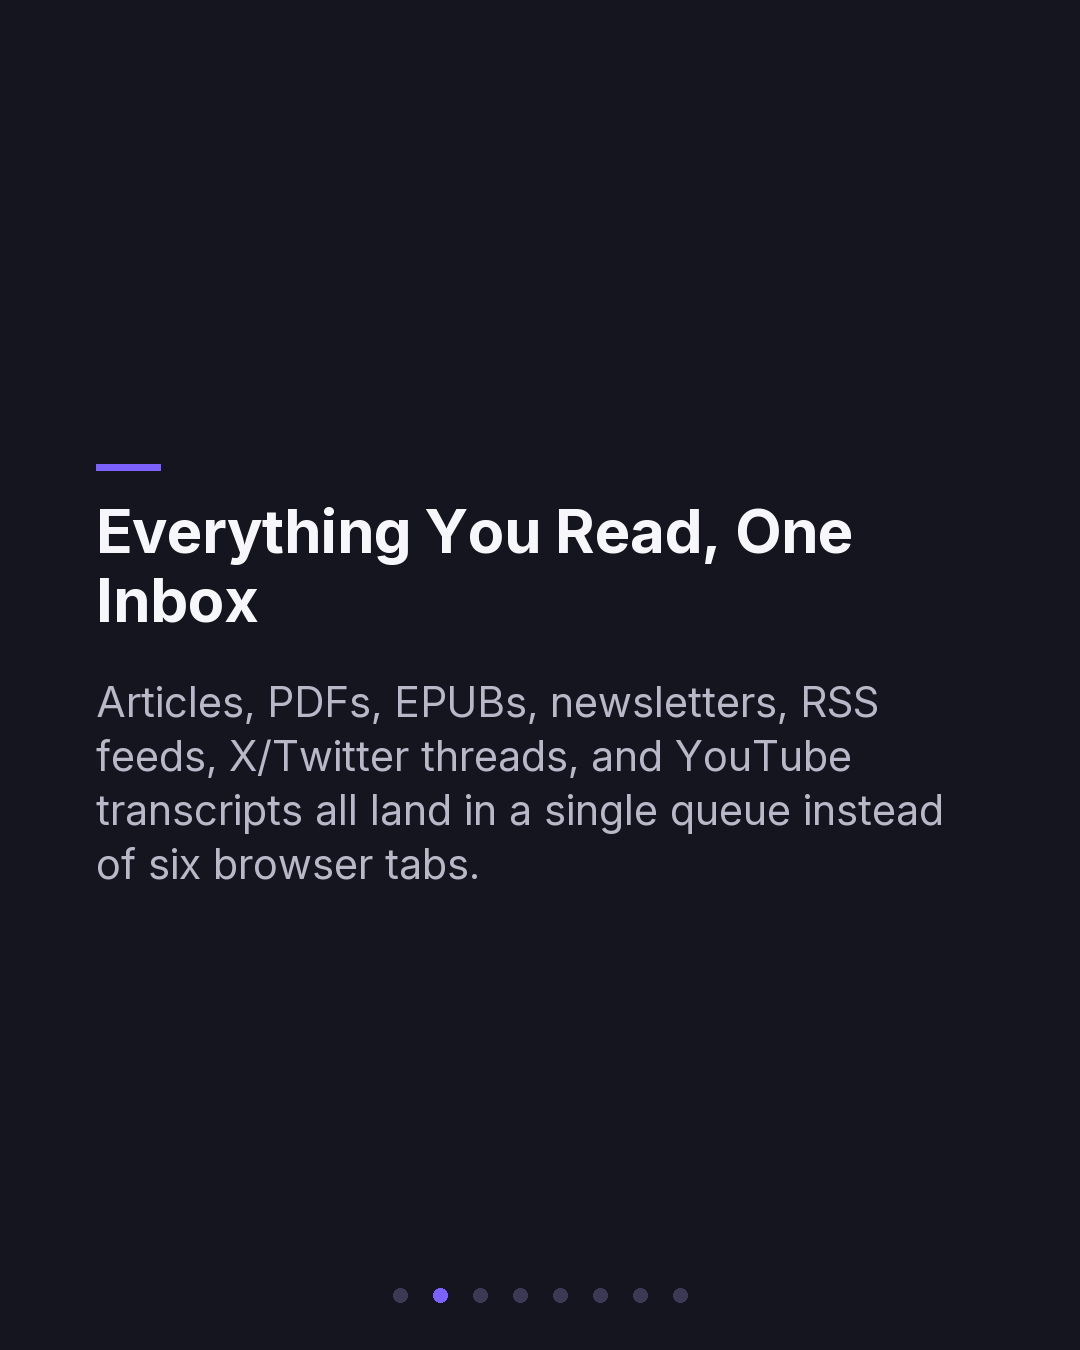
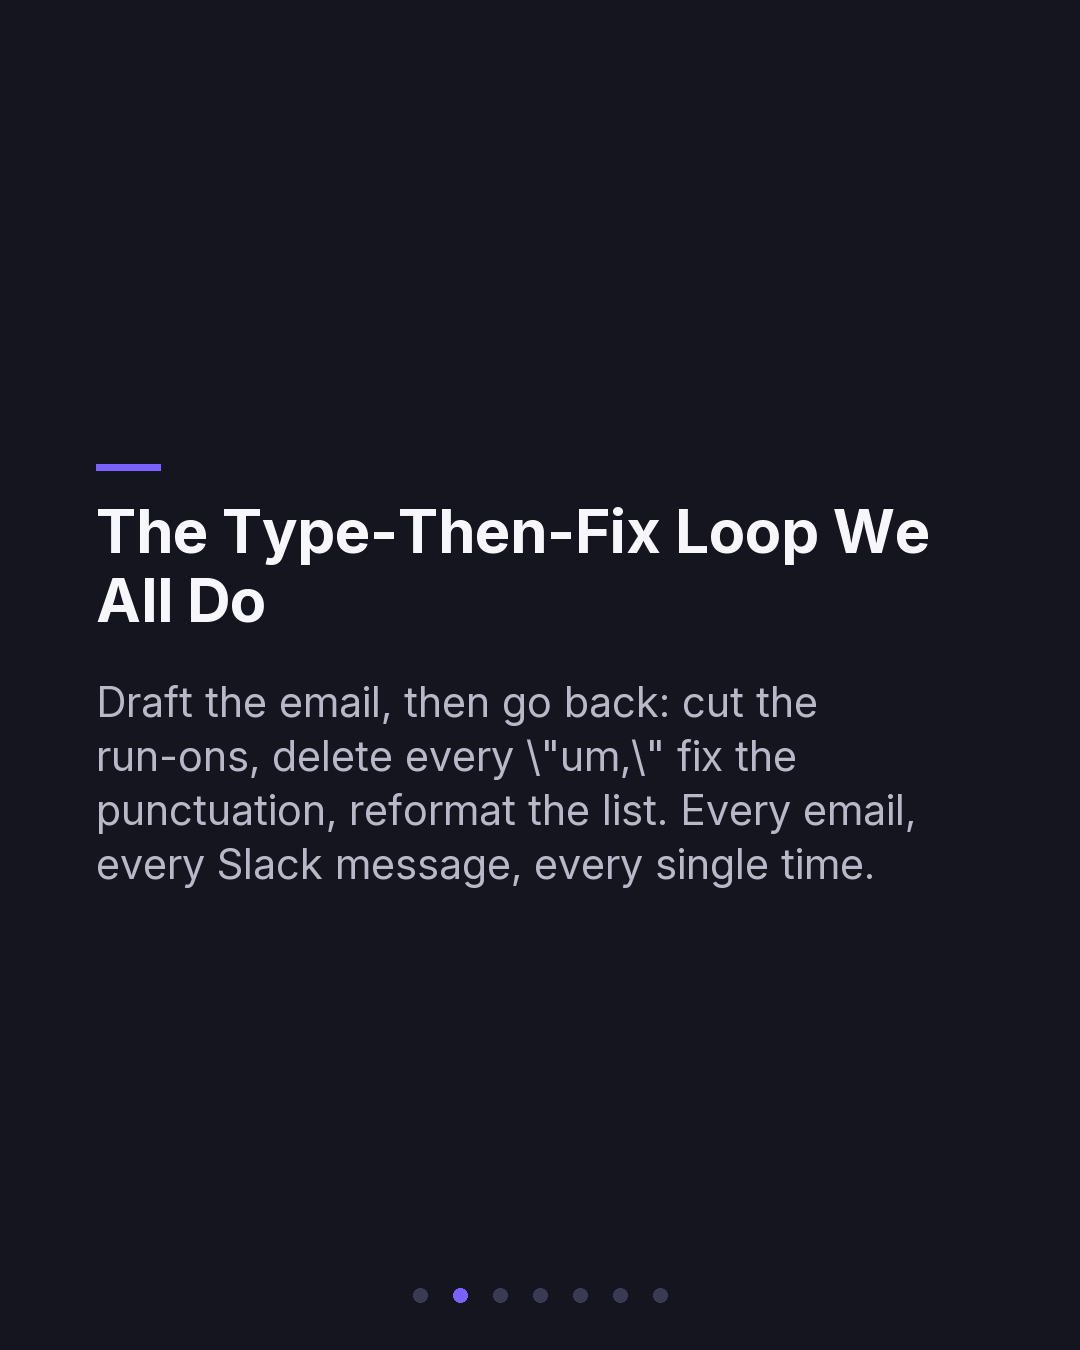
Rebuild content strategy around desire rather than specs
Pricing was both eating the search budget and turning posts into spec
sheets, so it's demoted to a passing caption mention at most. Slides now
follow a desire arc (hook, status quo, vivid capabilities, one honest
catch, CTA) and the critique pass tests a single question: would a
scroller stop, read, and want this?

Also fixes the run that hung for 25 minutes and cost ~4 EUR: the research
call is streamed so it can't trip the SDK timeout, retries are capped at
zero so a failure is billed once, and the job has a 15-minute ceiling.
Search budget raised 4 -> 5 since three hard requirements couldn't fit in
four searches, which is why yesterday's run bailed with NO QUALIFYING
CANDIDATE.

Changed region(s): [[0.0917, 0.4978, 0.8861, 0.6533], [0.0917, 0.3733, 0.8556, 0.4667], [0.3667, 0.9333, 0.6417, 0.9644]]

diff --git a/generate_content.py b/generate_content.py
@@ -4,14 +4,14 @@ Instagram carousel content generator.
 What this does:
   1. Alternates between two research modes so coverage stays ~50/50 over
      time (not left to chance, which is what drifted to "always newest"):
-       - "proven": a tool with a real track record -- confirmed pricing,
-         real reviews, an underrated gem or a big recent update
-       - "new": a genuinely recent launch/update -- but ONLY if Claude can
-         confirm real pricing and real evidence of adoption; otherwise it's
-         instructed to reject that candidate and search for a different one
-         rather than publish something unresearchable (this is the fix for
-         posts like the 3-day-old tool with no confirmed pricing that
-         slipped through before)
+       - "proven": a tool with a real track record -- real users and
+         discussion, an underrated gem or a big recent update
+       - "new": a genuinely recent launch/update -- but only if it's real and
+         usable today, not vaporware or a waitlist (the fix for the 3-day-old
+         tool with nothing verifiable that slipped through before)
+     Research aims at what makes a tool exciting -- its standout capability
+     and what drudgery it removes -- not at pricing tiers, which made earlier
+     posts read like spec sheets.
   2. Asks Claude to write a caption + carousel slides, then critiques and
      rewrites its own draft for specificity and punch
   3. Renders each slide as a designed image with Pillow
@@ -58,10 +58,12 @@ OVEREXPOSED_TOOLS = [
     "Notion AI", "Grammarly", "Jasper", "Copy.ai", "Midjourney", "Canva Magic Studio",
 ]
 
+# Pricing-related flags deliberately removed -- pricing is no longer something
+# the post needs, so "no public pricing" is not a problem. What still matters
+# is whether the tool is actually real and usable.
 UNCONFIRMED_RED_FLAGS = [
     "could not confirm", "cannot confirm", "not confirmed", "unable to confirm",
-    "pricing not available", "pricing not yet public", "pricing tbd",
-    "waitlist only", "no public pricing",
+    "waitlist only", "not yet launched", "coming soon", "invite only",
 ]
 
 
@@ -101,55 +103,66 @@ def research_topic(client: anthropic.Anthropic, history: list[str], mode: str) -
     if mode == "proven":
         task = (
             "Your job: find ONE AI tool or productivity app with a genuine track record -- "
-            "something that's been around long enough to have confirmed pricing and real "
-            "user reviews, but that this audience likely hasn't tried yet. This can be a "
-            "well-made tool that never got much attention, or an established one that just "
-            "shipped a major feature worth revisiting. It does NOT need to be new -- being "
-            "genuinely useful and under-the-radar matters more here than recency."
+            "something that's been around long enough that real people use and discuss it, "
+            "but that this audience likely hasn't tried yet. A well-made tool that never got "
+            "much attention, or an established one that just shipped something worth "
+            "revisiting. It does NOT need to be new -- being genuinely useful and "
+            "under-the-radar matters more here than recency."
         )
     else:
         task = (
             "Your job: find ONE AI tool or productivity app that is genuinely recent -- "
-            "launched, out of beta, or majorly updated within roughly the last 1-6 months.\n\n"
-            "HARD requirements -- the tool you write up must have ALL THREE of these "
-            "confirmed by search, not assumed:\n"
-            "1. A specific, real price or pricing tier. 'Pricing not yet public', 'waitlist "
-            "only', or you guessing a likely price does NOT count.\n"
-            "2. Real evidence of adoption/reception -- meaningful Product Hunt comments or "
-            "upvotes, press coverage, Hacker News/Reddit discussion, or review site "
-            "listings. A bare directory listing with zero engagement is NOT enough.\n"
-            "3. Actual recency. A tool that launched years ago does NOT qualify just "
-            "because it still exists -- if you pick an established product, the angle must "
-            "be a specific feature or version it shipped in the last ~6 months, and that "
-            "feature must be what the post is about.\n\n"
-            "Start your summary with a line in exactly this format so recency is auditable:\n"
-            "RECENCY: <what launched or changed, and roughly when>\n"
-            "If you can't fill that line in honestly with something from the last ~6 "
-            "months, this candidate does not qualify for today."
+            "launched, out of beta, or majorly updated within roughly the last 1-6 months. "
+            "If you pick an established product, the angle must be something it shipped in "
+            "that window, and that new thing must be what the post is about.\n\n"
+            "Start your summary with this line so recency is auditable:\n"
+            "RECENCY: <what launched or changed, and roughly when>"
         )
 
-    # Search budget matters a lot: every result stays in context and gets
-    # re-billed on each later turn of the tool loop, so search count drives
-    # cost super-linearly. Hence the explicit plan + hard cap below.
-    search_discipline = (
-        "\n\nSEARCH BUDGET -- important: you have a hard limit of 4 web searches, and each "
-        "one materially increases cost. Use them deliberately:\n"
-        "- 1 broad discovery search to surface candidates\n"
-        "- 2-3 targeted searches to verify the single most promising candidate (its pricing "
-        "page, and reviews/discussion of it)\n"
-        "Do not browse speculatively or explore candidates you've already ruled out.\n\n"
-        "If you run out of searches without being able to confirm the requirements above, "
-        "do NOT write up an unverified tool and do NOT pad the summary with caveats. "
-        "Instead, reply with exactly 'NO QUALIFYING CANDIDATE' on the first line, followed "
-        "by a one-line reason. A skipped day is much better than a post with made-up "
-        "pricing."
+    # Only two bars now, and neither is pricing -- pricing ate the search
+    # budget and turned posts into spec sheets. What actually matters is that
+    # the tool is real and that there's something exciting to say about it.
+    task += (
+        "\n\nTwo things must be true of whatever you pick:\n"
+        "1. It is REAL and usable today -- not a waitlist, not a concept, not vaporware. "
+        "Someone reading this post must be able to go and try it.\n"
+        "2. There is some real-world signal it exists and works -- press, a review, a "
+        "Product Hunt or Reddit or Hacker News discussion, anything beyond the vendor's "
+        "own marketing page.\n\n"
+        "WHAT TO ACTUALLY RESEARCH -- this is for an inspiring post, not a spec sheet. "
+        "Spend your effort finding:\n"
+        "- The single most impressive or surprising thing it does (the 'wait, that's "
+        "possible?' capability)\n"
+        "- A vivid, concrete picture of what using it replaces -- the tedious thing it "
+        "removes from someone's day\n"
+        "- Exact feature names and real capabilities, so the post can be specific rather "
+        "than vague\n"
+        "- One honest limitation\n"
+        "Do NOT spend searches hunting down pricing tiers, quotas, or usage limits. Price "
+        "is not what makes someone want a tool, and the post will barely mention it."
     )
-    task += search_discipline
 
-    response = client.messages.create(
+    # Search results accumulate in context and get re-billed on every later
+    # turn of the loop, so search count drives cost super-linearly.
+    task += (
+        "\n\nSEARCH BUDGET: you have 5 web searches, and each one materially increases "
+        "cost. Plan them: 1 broad discovery search, then targeted ones on the single most "
+        "promising candidate. Don't re-explore candidates you've ruled out.\n\n"
+        "If you run low on searches, work with what you have -- as long as the tool is "
+        "clearly real and usable, write the post. Only reply with 'NO QUALIFYING "
+        "CANDIDATE' on the first line (plus a one-line reason) if you genuinely could not "
+        "find any tool that's real and usable -- that bar is about avoiding vaporware, not "
+        "about having every detail nailed down."
+    )
+
+    # Streamed, not a plain create(): this call runs a multi-step web-search
+    # loop that can exceed the SDK's 10-minute request timeout. A timeout here
+    # silently triggers retries, each re-running every search from scratch --
+    # which is how a "10 minute" run turned into 30 minutes and 3x the cost.
+    with client.messages.stream(
         model=MODEL,
         max_tokens=4000,
-        tools=[{"type": "web_search_20260209", "name": "web_search", "max_uses": 4}],
+        tools=[{"type": "web_search_20260209", "name": "web_search", "max_uses": 5}],
         messages=[{
             "role": "user",
             "content": (
@@ -163,16 +176,16 @@ def research_topic(client: anthropic.Anthropic, history: list[str], mode: str) -
                 "you find a genuinely newsworthy angle, like a brand-new flagship feature or "
                 "version launch, in which case name that specific angle explicitly.\n"
                 f"Do NOT repeat any of these already-covered topics: {avoid_list}.\n\n"
-                "Once you have a qualifying candidate, confirm via web search: its current "
-                "pricing tiers, its 3-5 most useful features, and at least one honest "
-                "limitation or downside -- don't only write positives, credibility matters "
-                "more than hype.\n\n"
-                "Reply with a plain-text research summary covering: tool name, why it's "
-                "worth covering, pricing, features, the limitation, and the source URLs "
-                "you used."
+                "Reply with a plain-text research summary covering: the tool's name, the "
+                "single most impressive thing it does, what tedious task it replaces, its "
+                "standout features by name, one honest limitation, and the source URLs you "
+                "used. Write the summary so that someone reading only it could produce an "
+                "exciting post -- lead with what makes this genuinely interesting, not with "
+                "a feature inventory."
             ),
         }],
-    )
+    ) as stream:
+        response = stream.get_final_message()
 
     return "".join(b.text for b in response.content if b.type == "text")
 
@@ -185,8 +198,8 @@ def write_post(client: anthropic.Anthropic, research: str) -> dict:
         messages=[{
             "role": "user",
             "content": (
-                "Using this research, write an Instagram carousel post for a business "
-                "account reviewing AI tools and productivity software:\n\n"
+                "Using this research, write an Instagram carousel post that makes people "
+                "want to go try this tool:\n\n"
                 f"{research}\n\n{WRITING_RULES}"
             ),
         }],
@@ -207,11 +220,17 @@ def critique_and_revise(client: anthropic.Anthropic, draft: dict) -> dict:
             "content": (
                 "Here is a draft Instagram post:\n\n"
                 f"{json.dumps(draft, indent=2)}\n\n"
-                "Critique it harshly: flag every generic phrase, vague marketing "
-                "adjective ('powerful', 'game-changing', 'seamless', etc.), weak or boring "
-                "hook, and any slide that doesn't carry one specific, concrete point. Then "
-                "rewrite the whole post to fix every issue you found -- same tool, same "
-                "facts, but substantially punchier, more specific, and more scroll-stopping. "
+                "Critique it harshly against ONE test: would someone scrolling past this "
+                "stop, read it, and want the tool by the end? Specifically flag:\n"
+                "- A hook that doesn't earn the swipe\n"
+                "- Any slide that reads like a spec sheet, feature label, or pricing table "
+                "instead of something the reader would WANT\n"
+                "- Generic marketing adjectives ('powerful', 'game-changing', 'seamless')\n"
+                "- Vagueness where a vivid, specific picture was available in the facts\n"
+                "- Anything that sounds like a product brochure rather than a person who "
+                "found something genuinely cool\n"
+                "Then rewrite the whole post fixing every issue -- same tool, same facts, "
+                "but substantially more desirable to read. "
                 f"{WRITING_RULES}\n"
                 "Return ONLY the improved, rewritten version in the schema -- not the "
                 "critique itself."
@@ -228,7 +247,10 @@ def main() -> None:
         print('Set ANTHROPIC_API_KEY first, e.g.:\n  export ANTHROPIC_API_KEY="your-key-here"')
         sys.exit(1)
 
-    client = anthropic.Anthropic()
+    # max_retries=0 is deliberate: a retry of the research call re-runs every
+    # web search and gets billed again. A failed run that costs once and exits
+    # is far better than a silent 3x charge for output nobody ever receives.
+    client = anthropic.Anthropic(max_retries=0, timeout=600.0)
     history = load_history()
 
     mode = choose_mode(history)
@@ -241,19 +263,19 @@ def main() -> None:
 
     if research.strip().upper().startswith("NO QUALIFYING CANDIDATE"):
         print(
-            "\nResearch found nothing that met the bar (confirmed pricing + real adoption "
-            "evidence), so no post was generated today.\n"
-            "That's the intended behaviour -- a skipped day beats a post with invented "
-            "pricing. Nothing was written, rendered, or charged for writing."
+            "\nResearch couldn't find a tool that's actually real and usable today, so no "
+            "post was generated.\n"
+            "That's the intended behaviour -- a skipped day beats posting about vaporware. "
+            "Nothing was written, rendered, or charged for writing."
         )
         sys.exit(0)
 
     lowered = research.lower()
     if any(flag in lowered for flag in UNCONFIRMED_RED_FLAGS):
         print(
-            "\n/!\\ WARNING: this research mentions unconfirmed pricing/details despite "
-            "being told not to -- double check the caption's claims carefully before "
-            "approving this post."
+            "\n/!\\ WARNING: this research suggests the tool may not be fully launched or "
+            "usable yet (waitlist, invite-only, unconfirmed details) -- worth a manual "
+            "check before this goes out."
         )
 
     print("\nWriting first draft...")

diff --git a/pipeline_common.py b/pipeline_common.py
@@ -100,30 +100,44 @@ WRITING_RULES = (
     "describing what the tool does and what its users report -- 'It joins your Zoom call "
     "and...', 'Users consistently flag that...'. Specificity must come from the research, "
     "never from a made-up anecdote.\n"
-    "- Tone: sharp and specific, like a knowledgeable person explaining something worth "
-    "knowing about -- not an ad, and not a fake testimonial. Include the limitation, "
-    "don't oversell.\n"
-    "- Be CONCRETE, not generic: use real numbers, exact feature names, exact pricing, "
-    "and a specific example of what someone would actually use this for. Never settle for "
-    "vague claims like 'powerful' or 'boosts productivity' when a specific detail from the "
-    "research is available instead.\n"
+    "- THE JOB OF THIS POST is to make the reader want the tool -- to feel 'I need to try "
+    "this'. Sell the TRANSFORMATION, not the spec sheet. Lead with what becomes possible, "
+    "what disappears from their day, or the thing they didn't know software could do yet. "
+    "A reader should finish the carousel thinking about their own life, not about feature "
+    "checkboxes.\n"
+    "- PRICING IS NOT THE STORY. Do not build slides around price, tiers, quotas, or usage "
+    "limits -- nobody gets excited about a pricing table. At most, mention cost once in "
+    "passing in the caption if it's genuinely remarkable (e.g. it's free, or startlingly "
+    "cheap for what it does). Never give pricing its own slide.\n"
+    "- But inspiring does NOT mean vague. This is the hard part: be evocative AND concrete "
+    "at the same time. The desire comes from a specific, vivid picture -- 'it sits in your "
+    "meetings and hands you the decisions afterwards' beats both 'boosts productivity' "
+    "(vague) and '1,200 transcription minutes per month' (a spec). Use exact feature names "
+    "and real capabilities from the research, framed as what they DO for the reader.\n"
+    "- Include one honest limitation, briefly, near the end. Credibility is what makes the "
+    "inspiring parts believable -- but don't dwell on it.\n"
     f"- Banned words/phrases -- do not use any of these anywhere: {', '.join(BANNED_PHRASES)}.\n"
     "- caption: an Instagram caption (under 2200 characters). The FIRST LINE must be a "
     "scroll-stopping hook -- a specific claim, number, or contrarian observation, not a "
     "generic opener like 'Have you heard of...' or 'Let's talk about...'. "
     f"{_DISCLOSURE_RULE} Do NOT include "
     "any raw URLs in the caption -- Instagram won't make them clickable anyway.\n"
-    "- slides: produce between 5 and 8 carousel slides. Slide 1 is the hook -- it should "
-    "work as a standalone thumbnail, punchy, under 8 words if possible. Middle slides each "
-    "cover ONE specific, concrete point (a feature, a price, a real use case) -- no filler "
-    "slides that just restate the hook. The last slide is the CTA, pointing to the bio "
-    "link. Each slide needs a short heading (under 40 characters) and a 1-2 sentence body "
-    "written to fit on a graphic, not a paragraph.\n"
+    "- slides: produce 5 to 7 carousel slides, following this arc:\n"
+    "    1. HOOK -- works alone as a thumbnail. Under 8 words. The surprising promise or "
+    "the 'wait, that exists?' moment.\n"
+    "    2. THE STATUS QUO -- the tedious, annoying, or slow thing the reader currently "
+    "does. Make them feel it.\n"
+    "    3-5. THE GOOD PART -- each slide is one vivid capability, written as an outcome "
+    "('ask it what you decided three weeks ago and it just answers'), not a feature label. "
+    "At least one of these should land the 'I didn't know that was possible' feeling.\n"
+    "    Second-to-last. THE HONEST CATCH -- one real limitation, one sentence.\n"
+    "    Last. CTA -- what to do next, pointing to the bio link.\n"
+    "  No slide may be a pricing table. Each needs a short heading (under 40 characters) "
+    "and a 1-2 sentence body written to fit on a graphic, not a paragraph.\n"
     "- hashtags: 5-10 relevant hashtags, no '#' symbol included.\n"
-    "- sources: the URLs you used for pricing/feature facts, so a human can spot-check "
-    "them. At least one source MUST be independent of the vendor (a review, a press "
-    "piece, a Reddit/Hacker News/Product Hunt discussion) -- the tool's own pricing page "
-    "alone does not verify that real people actually use and rate it.\n"
+    "- sources: the URLs you used for factual claims, so a human can spot-check them. At "
+    "least one should be independent of the vendor (a review, a press piece, a "
+    "Reddit/Hacker News/Product Hunt discussion) where one exists.\n"
 )
 
 

diff --git a/revise_content.py b/revise_content.py
@@ -108,7 +108,7 @@ def main() -> None:
     current_content = load_content(post_dir)
 
     print(f"\nApplying feedback: \"{feedback}\"")
-    client = anthropic.Anthropic()
+    client = anthropic.Anthropic(max_retries=0, timeout=600.0)
     revised = revise_with_feedback(client, current_content, feedback)
 
     # Keep the previous version around so you can see what changed.
